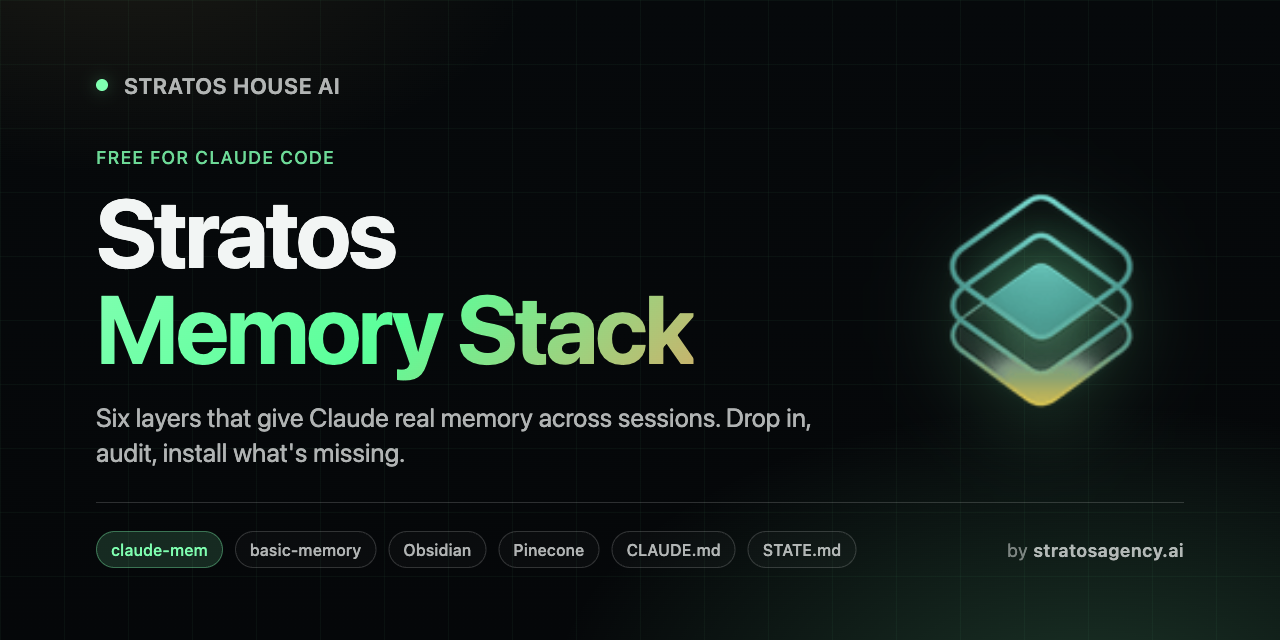
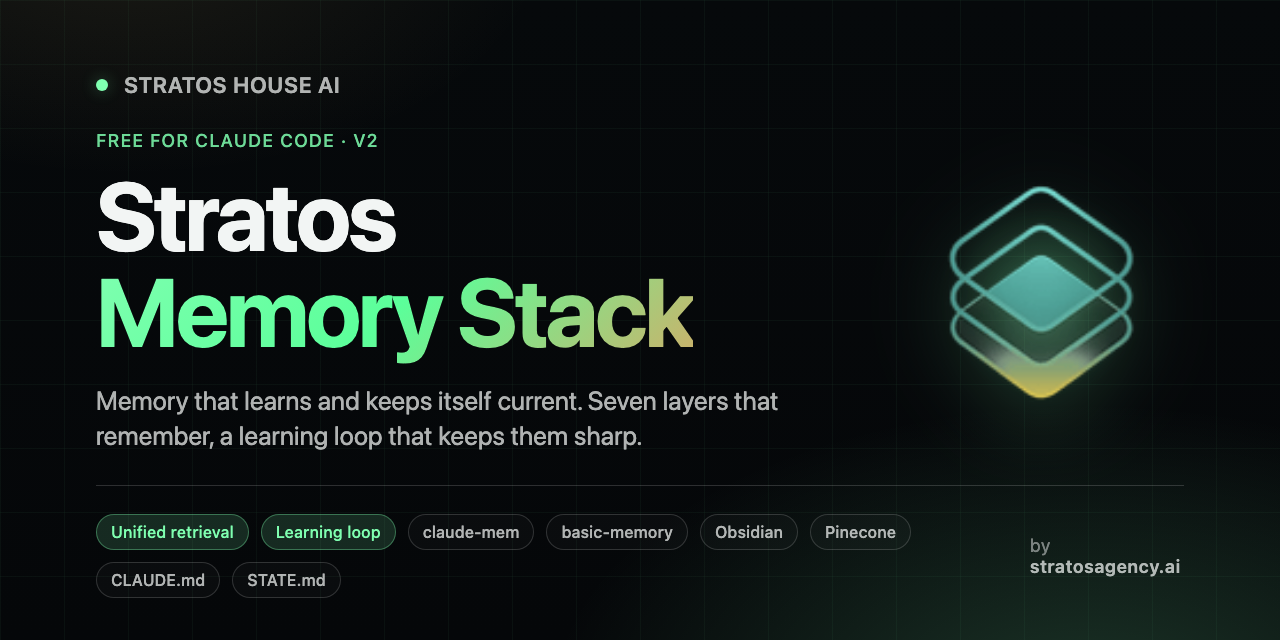
assets: regenerate social preview for v2 (seven layers + learning loop tagline)

diff --git a/assets/og-source.html b/assets/og-source.html
@@ -194,9 +194,9 @@
   </div>
 
   <div class="title">
-    <div class="eyebrow">Free for Claude Code</div>
+    <div class="eyebrow">Free for Claude Code · v2</div>
     <h1>Stratos<br/><span class="grad">Memory Stack</span></h1>
-    <div class="tag">Six layers that give Claude real memory across sessions. Drop in, audit, install what's missing.</div>
+    <div class="tag">Memory that learns and keeps itself current. Seven layers that remember, a learning loop that keeps them sharp.</div>
   </div>
 
   <div class="logo">
@@ -206,7 +206,9 @@
 
   <div class="footer">
     <div class="chips">
-      <span class="chip accent">claude-mem</span>
+      <span class="chip accent">Unified retrieval</span>
+      <span class="chip accent">Learning loop</span>
+      <span class="chip">claude-mem</span>
       <span class="chip">basic-memory</span>
       <span class="chip">Obsidian</span>
       <span class="chip">Pinecone</span>
